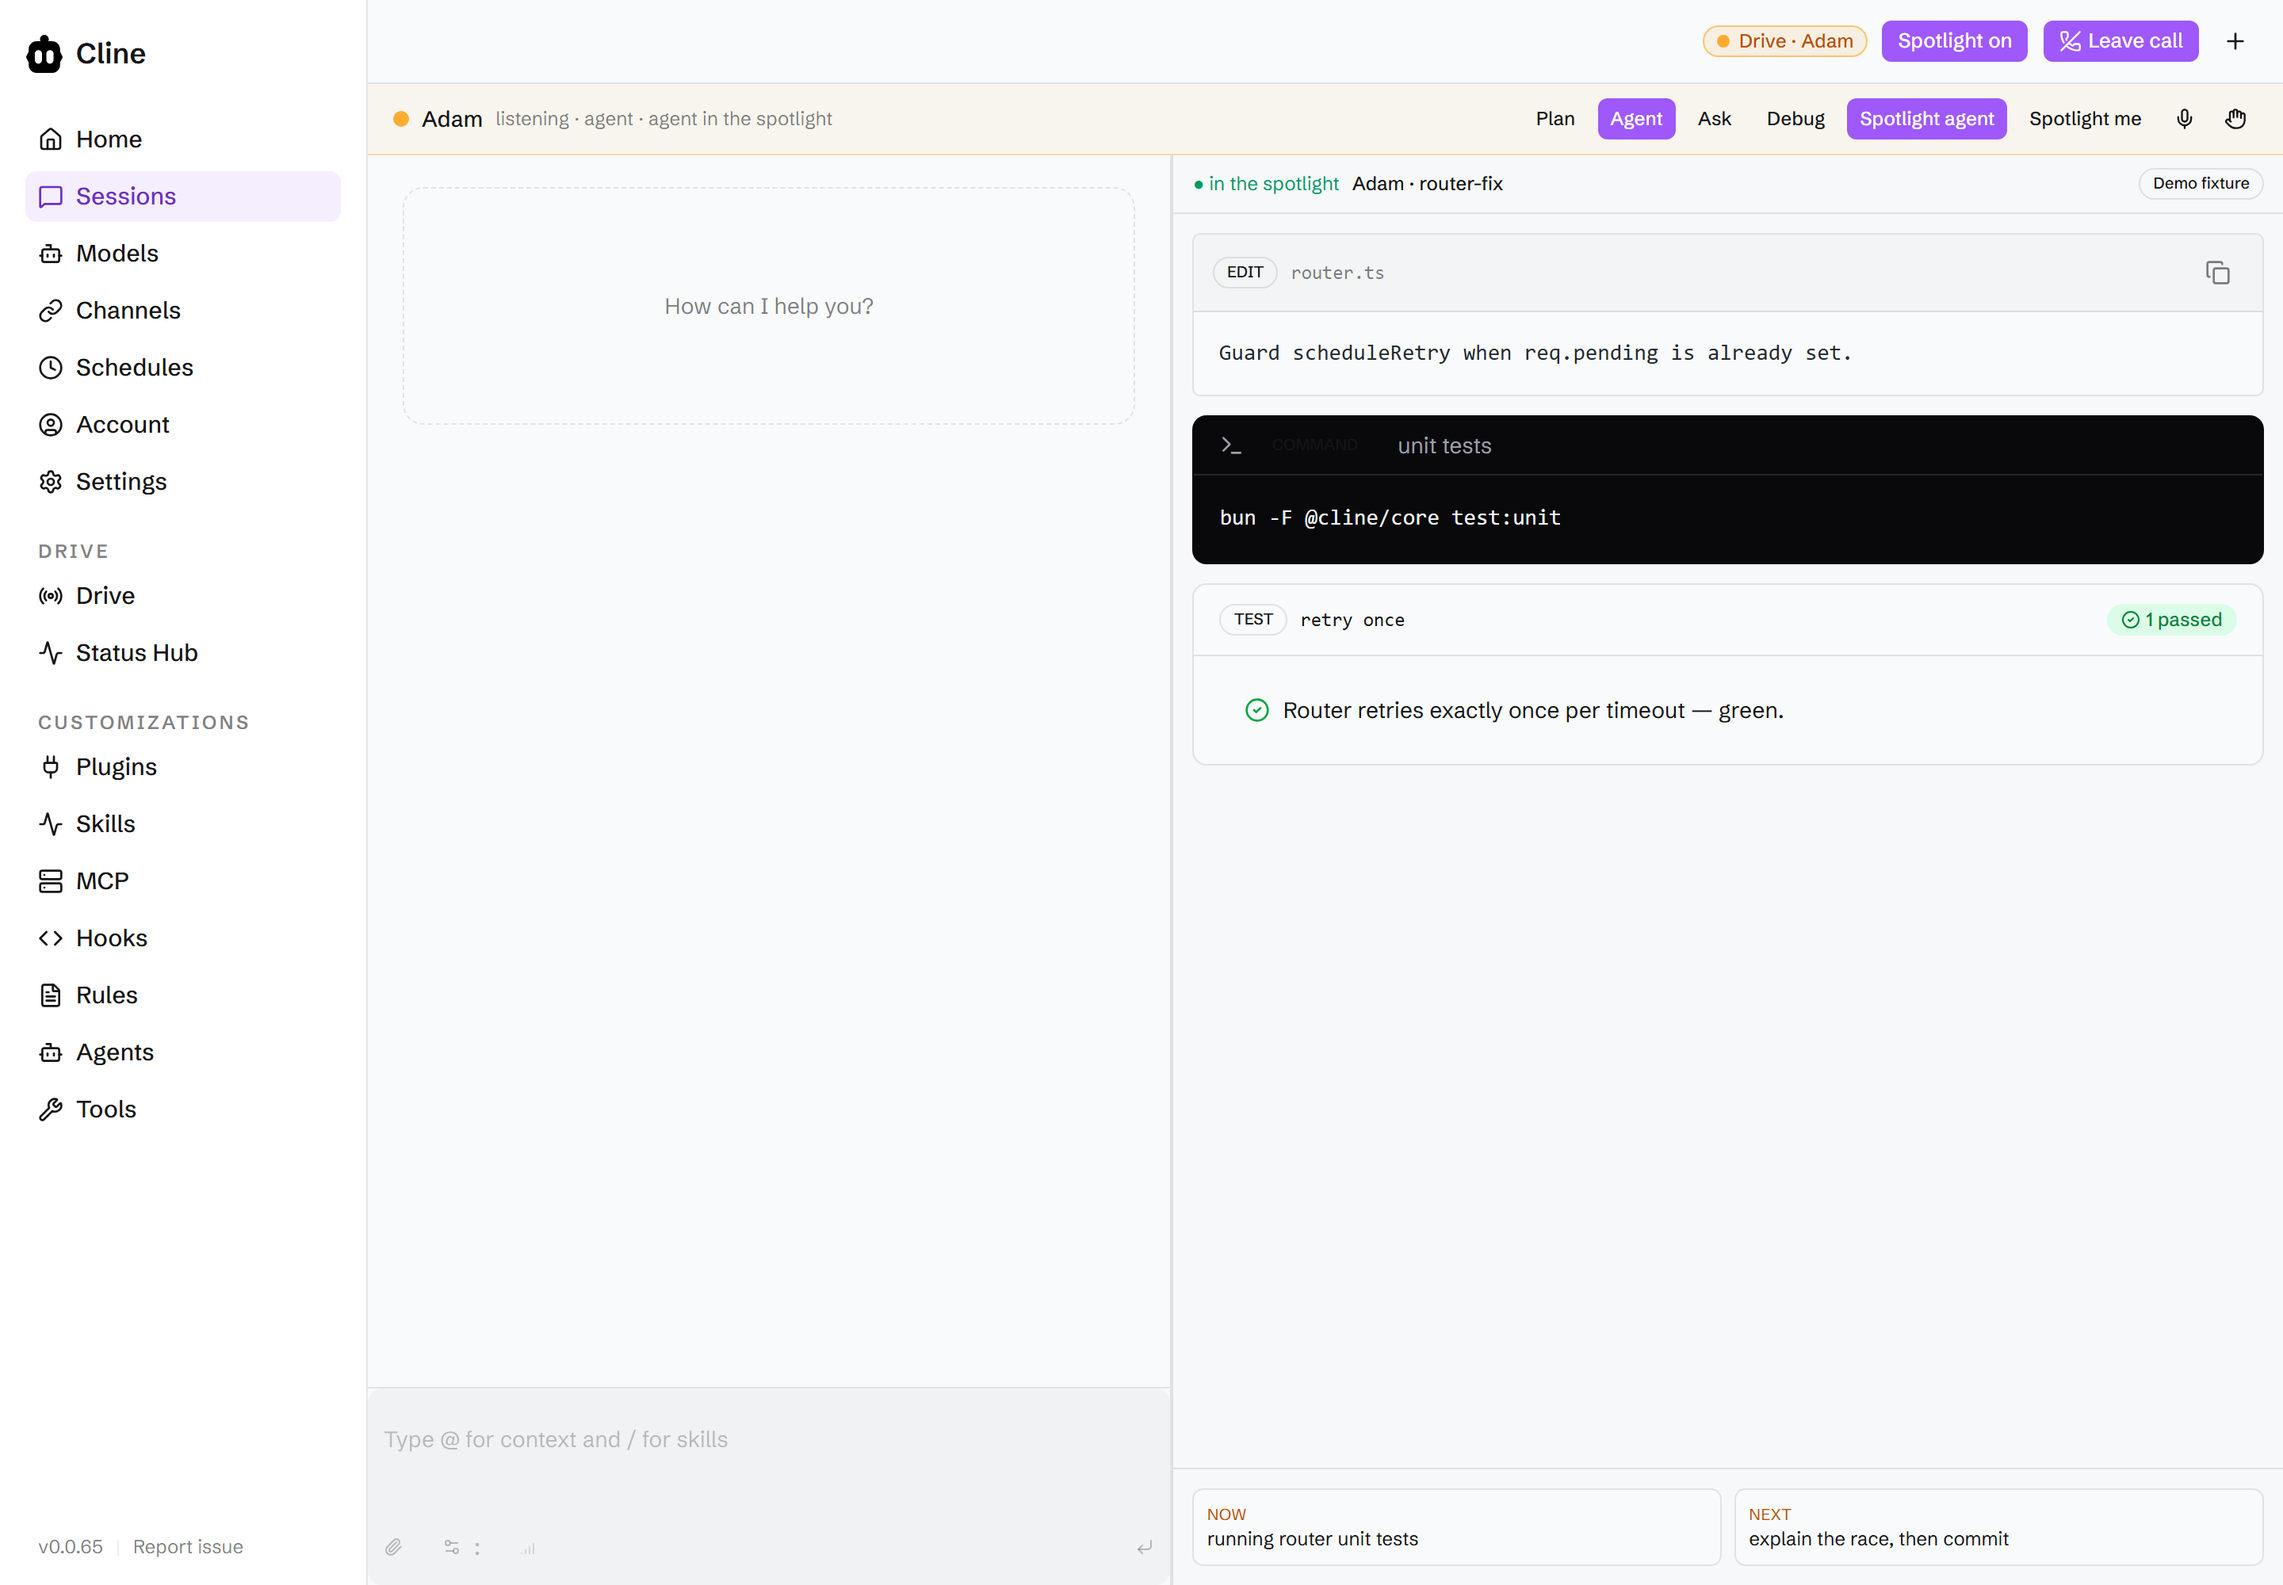
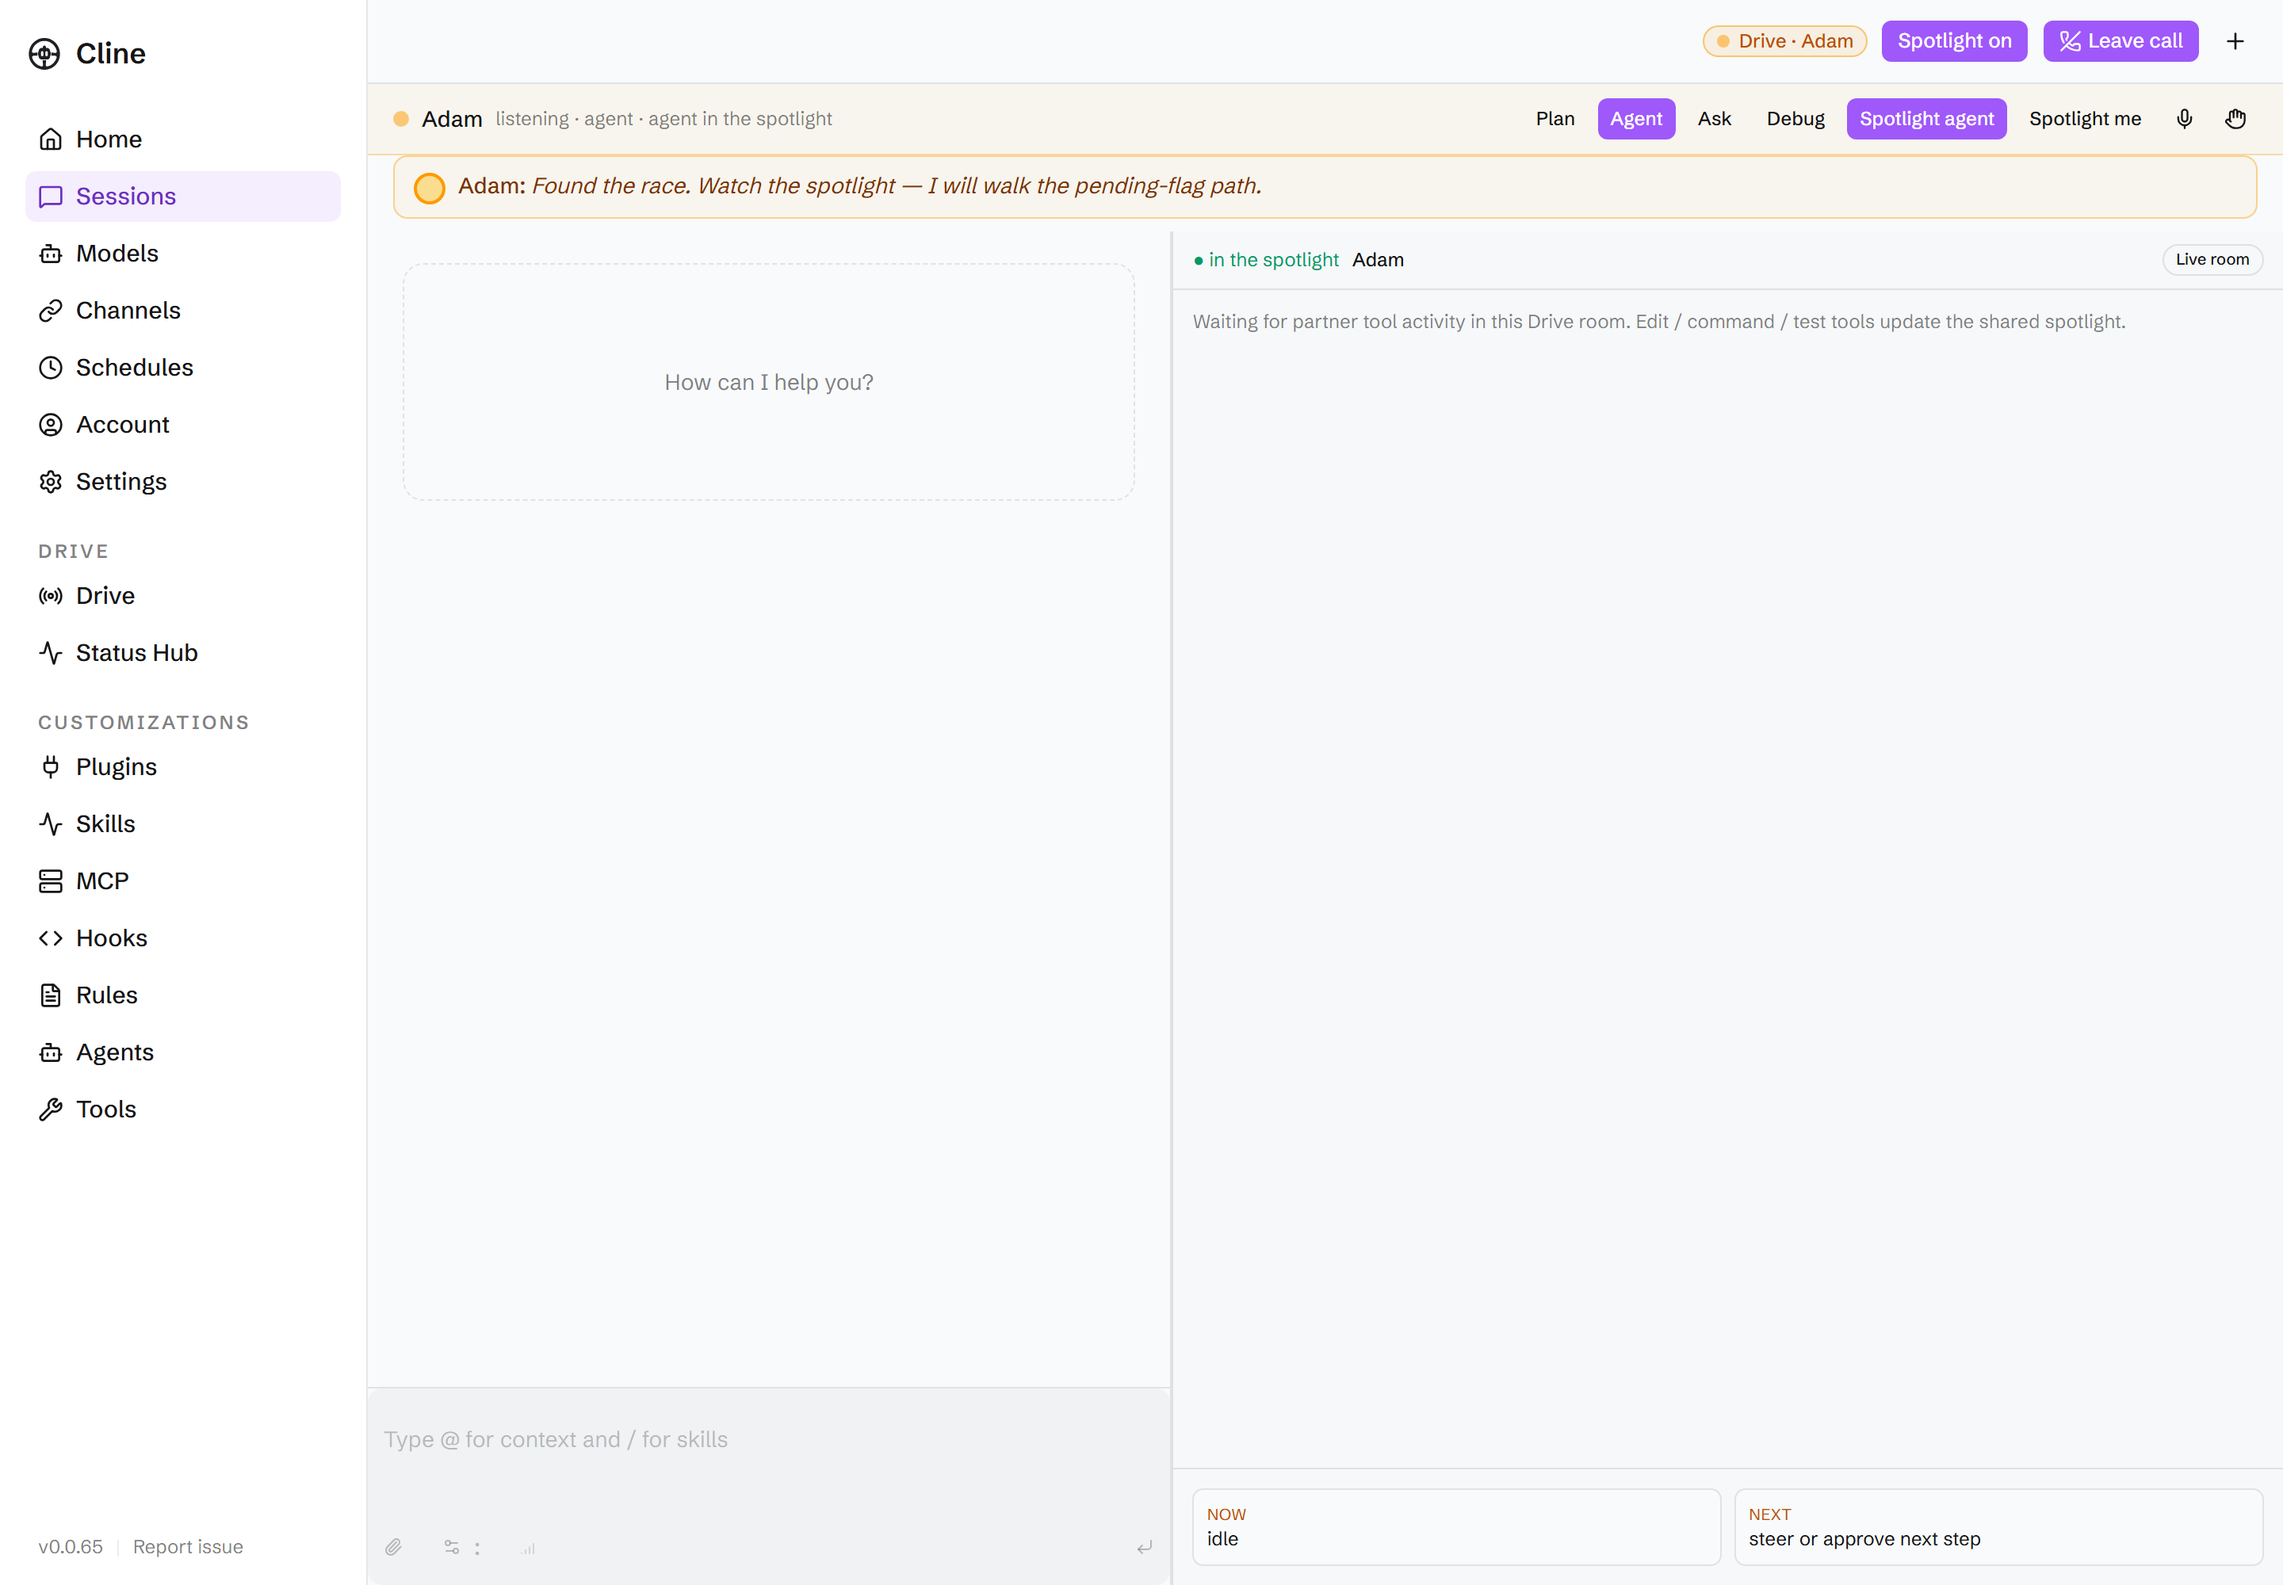
feat(hub): adopt the Cline Drive steering-wheel mark
Vectorizes the source PNG into an SVG asset pack and points the sidebar mark
and both favicons (built and dev-mode HTML) at it.

Tracing follows Harrison's script, with two changes to the trace stage because
the first pass rendered visibly lumpy at logo sizes: the anti-aliased source is
supersampled, blurred and re-thresholded before contouring so the boundary is
smooth, and contours are resampled and fitted with a closed Catmull-Rom spline
emitted as cubic Beziers, so the wheel rim reads as a circle rather than a
polygon. Five contours, ~25KB path, 1024 viewBox.

The mark is dark-on-transparent to match the sidebar's existing dark:invert
treatment. The favicon is a separate adaptive SVG that follows
prefers-color-scheme. README logo ships light and dark variants behind a
<picture> so it adapts to GitHub's theme.

Screenshots recaptured with the new mark.

diff --git a/apps/cline-hub/src/server/http.ts b/apps/cline-hub/src/server/http.ts
@@ -108,7 +108,7 @@ function renderDevIndexHtml(devServerUrl: string): string {
     window.__vite_plugin_react_preamble_installed__ = true;
   </script>
   <script type="module" src="${devServerUrl}/@vite/client"></script>
-  <link rel="icon" type="image/svg+xml" href="${devServerUrl}/cline-logo-filled.svg" />
+  <link rel="icon" type="image/svg+xml" href="${devServerUrl}/favicon.svg" />
   <title>Cline Hub</title>
 </head>
 <body>

diff --git a/apps/cline-hub/src/webview/index.html b/apps/cline-hub/src/webview/index.html
@@ -2,7 +2,7 @@
 <html lang="en">
   <head>
     <meta charset="UTF-8" />
-    <link rel="icon" type="image/svg+xml" href="/cline-logo-filled.svg" />
+    <link rel="icon" type="image/svg+xml" href="/favicon.svg" />
     <meta name="viewport" content="width=device-width, initial-scale=1.0" />
     <title>Cline Hub</title>
   </head>

diff --git a/apps/cline-hub/src/webview/src/App.tsx b/apps/cline-hub/src/webview/src/App.tsx
@@ -455,7 +455,7 @@ function Shell({
 					<img
 						alt=""
 						className="size-6 shrink-0 dark:invert"
-						src="/cline-logo-filled.svg"
+						src="/cline-drive-logo.svg"
 					/>
 					<span className="truncate">Cline</span>
 				</button>

diff --git a/apps/cline-hub/src/server.ts b/apps/cline-hub/src/server.ts
@@ -70,6 +70,7 @@ const PUBLIC_BROWSER_PATHS = new Set([
 	"/icon.ico",
 	"/32x32.png",
 	"/cline-logo-filled.svg",
+	"/cline-drive-logo.svg",
 	"/favicon.svg",
 ]);
 

diff --git a/README.md b/README.md
@@ -1,3 +1,10 @@
+<p align="center">
+  <picture>
+    <source media="(prefers-color-scheme: dark)" srcset="docs/assets/drivecode/logo-dark.png">
+    <img src="docs/assets/drivecode/logo-light.png" width="96" alt="Cline Drive">
+  </picture>
+</p>
+
 <h1 align="center">Drive</h1>
 
 <p align="center">
